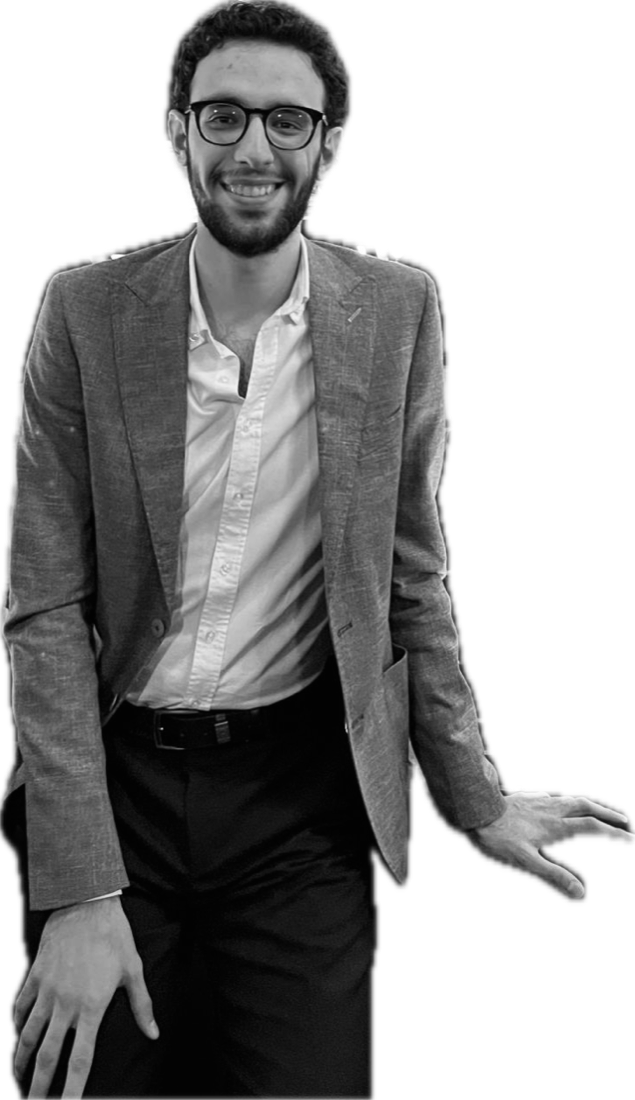
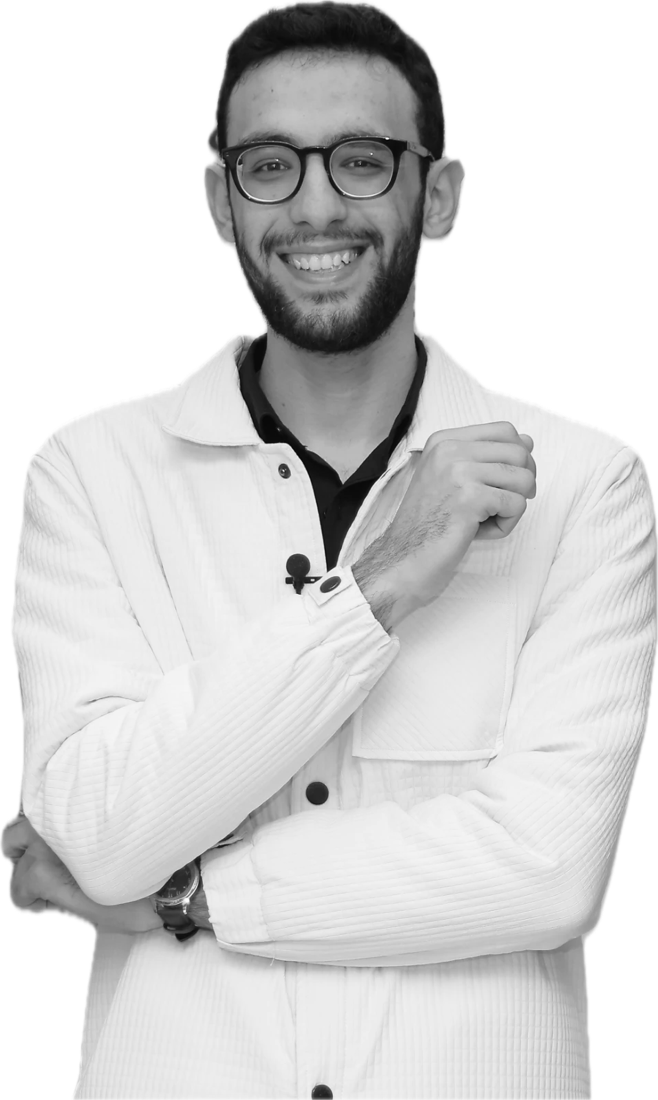
About: new portrait, full head kept, bottom trimmed

diff --git a/styles.css b/styles.css
@@ -185,8 +185,8 @@ h1 em{font-family:var(--sans);font-style:normal;font-weight:500;letter-spacing:-
 .about::after{content:"";position:absolute;left:0;right:0;bottom:0;height:24%;z-index:2;pointer-events:none;background:linear-gradient(rgba(6,11,26,0),var(--bg))}
 .about-word{position:absolute;left:50%;top:clamp(70px,9vh,110px);width:min(96vw,1640px);height:auto;z-index:0;overflow:visible;translate:-50% 0}
 .about-word text{font-family:var(--sans);font-weight:800;font-size:330px}
-.about-person{position:absolute;left:50%;bottom:0;height:min(88%,900px);width:auto;max-width:none;z-index:1;translate:-50% 0;
-  filter:contrast(1.06);-webkit-mask-image:linear-gradient(to bottom,#000 70%,transparent 100%);mask-image:linear-gradient(to bottom,#000 70%,transparent 100%)}
+.about-person{position:absolute;left:50%;bottom:0;height:min(88%,calc(100% - 110px),900px);width:auto;max-width:none;z-index:1;translate:-50% 0;
+  filter:contrast(1.04) brightness(.9);-webkit-mask-image:linear-gradient(to bottom,#000 66%,transparent 98%);mask-image:linear-gradient(to bottom,#000 66%,transparent 98%)}
 .js .about-word.reveal{transform:translateY(40px)}
 .js .about-person.reveal{transform:translateY(60px)}
 .js .about-word.reveal.in,.js .about-person.reveal.in{transform:none}

diff --git a/index.html b/index.html
@@ -85,7 +85,7 @@
     </defs>
     <text x="500" y="268" text-anchor="middle" textLength="992" lengthAdjust="spacingAndGlyphs" fill="url(#aboutWordFill)">STORYTELLER</text>
   </svg>
-  <img class="about-person reveal" src="assets/img/about-person.png" alt="Muhammad Saeed" width="635" height="1100" loading="lazy">
+  <img class="about-person reveal" src="assets/img/about-person.png" alt="Muhammad Saeed" width="658" height="1100" loading="lazy">
   <div class="wrap about-inner">
     <div class="about-copy">
       <p class="label reveal">About</p>
